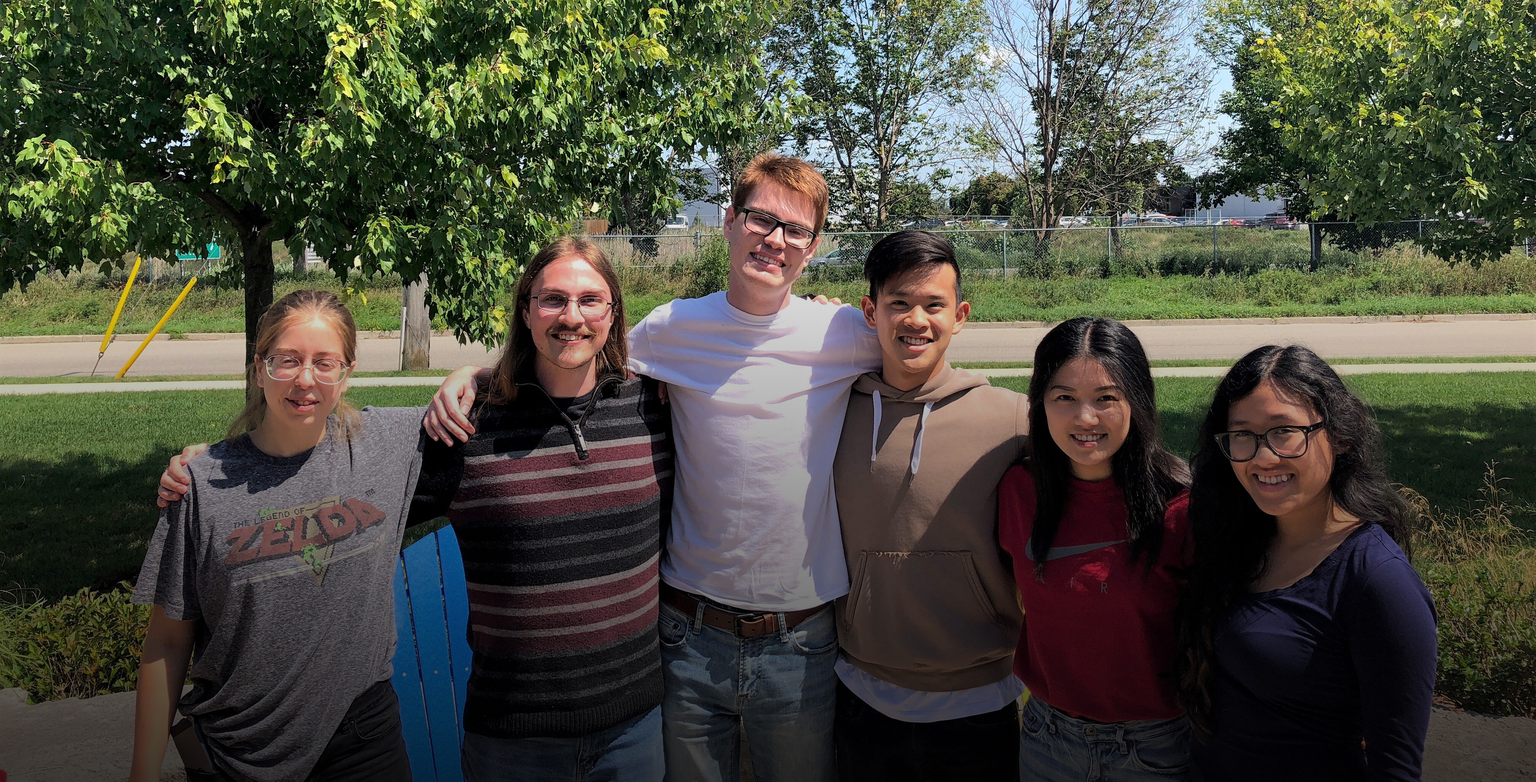
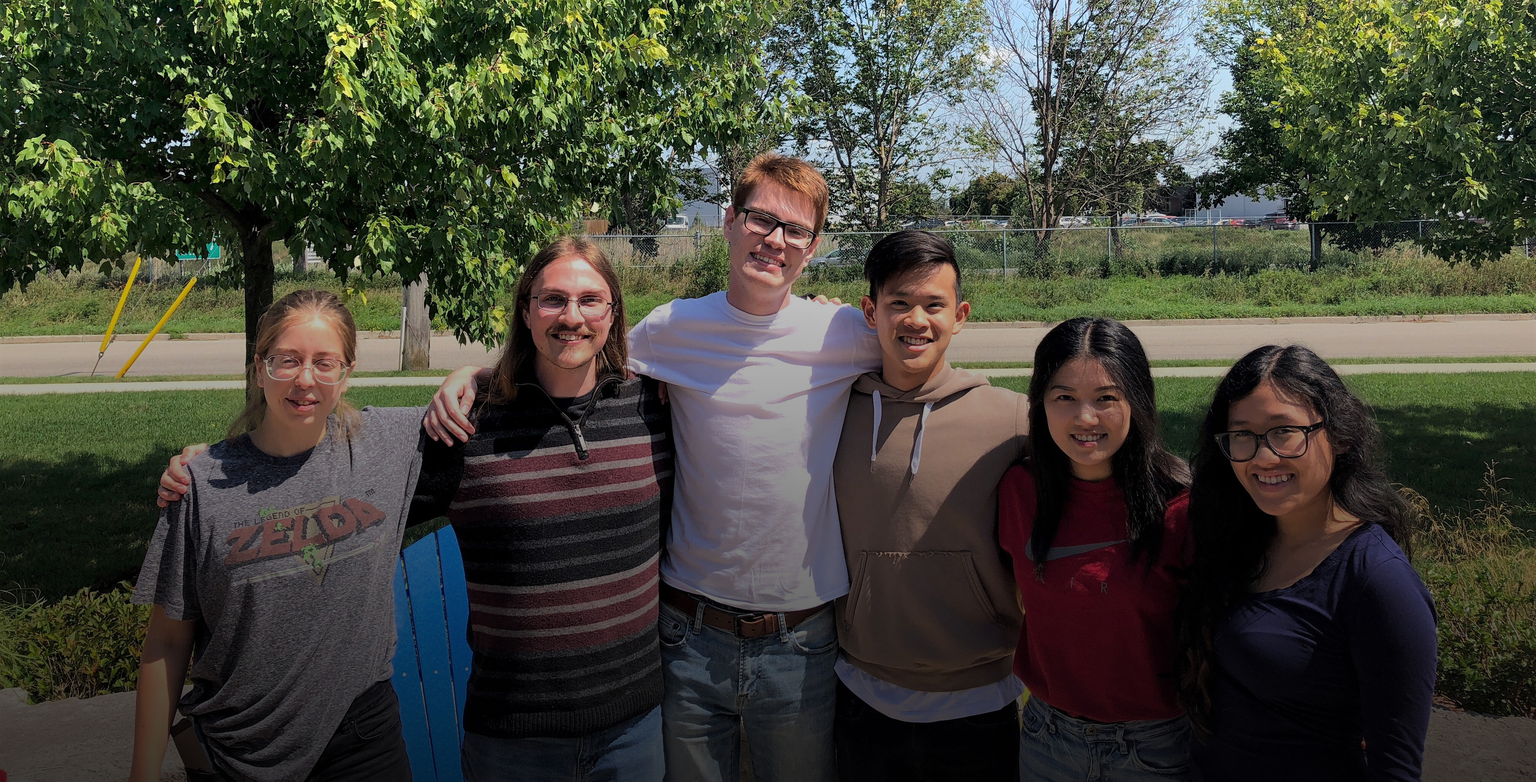
updated imagine comm. picture, small fixes

diff --git a/src/app/components/experience/experience.component.html b/src/app/components/experience/experience.component.html
@@ -6,7 +6,7 @@
   <div data-style-experiences>
     <div [attr.data-style-experience]="isMobile ? 'mobile' : 'desktop'"
          [attr.data-style-open]="isShowing(0) ? 'open' : 'closed'"
-         style="background-image: url(../../../assets/imagine-communications.JPG)"
+         style="background-image: url(../../../assets/imagine-communications.jpg)"
          (click)="toggleDescription(0)">
       <div>
           <h1>Imagine Communications</h1>

diff --git a/src/app/components/projects/projects.component.less b/src/app/components/projects/projects.component.less
@@ -60,7 +60,7 @@
         }
         .icon { 
             transform: scale(0.7);
-            margin: -3px;
+            margin: -3px 0 -3px 2px;
         }
     }
     [data-style-project~="desktop"] {
@@ -85,6 +85,7 @@
     width: 17px;
     display: inline-block;
     filter: grayscale(100%);
+    margin-left: 10px;
 }
 .cpp {
     background-image: url("../../../assets/cpp_logo.png");

diff --git a/src/app/services/responsive.service.ts b/src/app/services/responsive.service.ts
@@ -1,5 +1,5 @@
 import { Injectable } from "@angular/core";
-import { Subject, BehaviorSubject, Observable } from "rxjs";
+import { Subject } from "rxjs";
 
 @Injectable()
 export class ResponsiveService {
